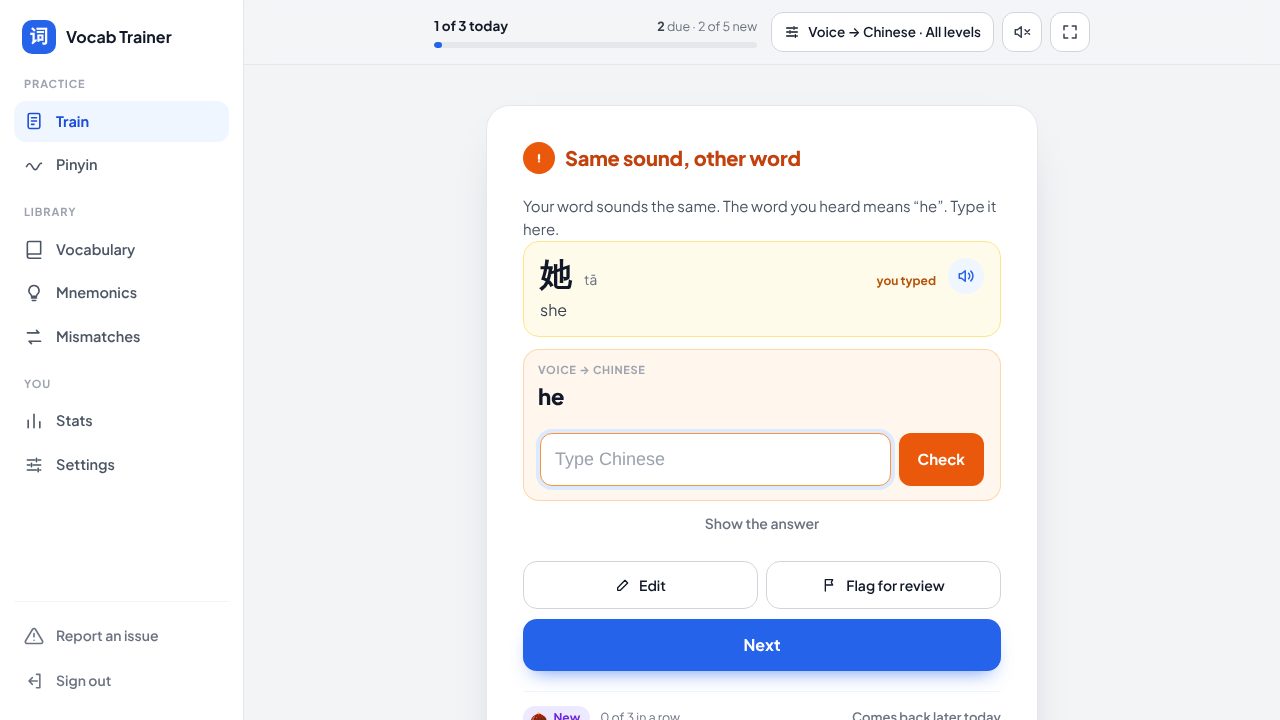
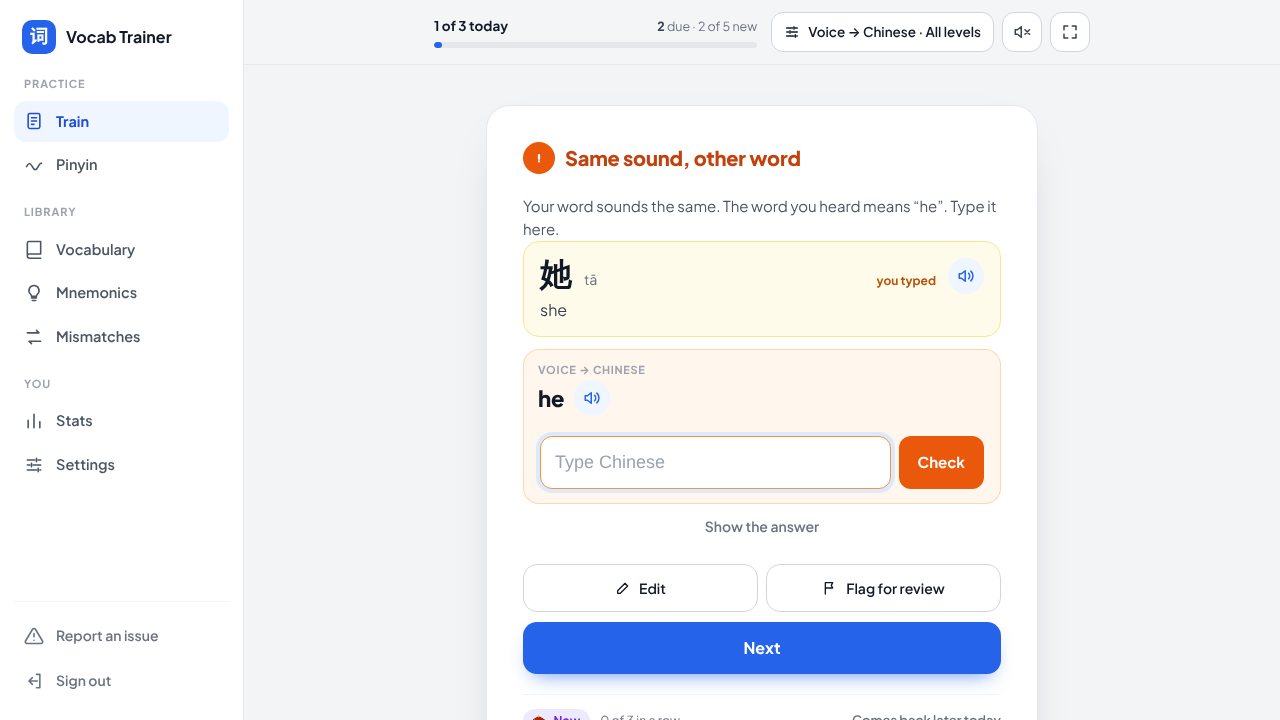
Add replay button to the Voice → Chinese homophone screen (#645)
On a Voice → Chinese card, the "Same sound, other word" screen showed
only the meaning. It now also shows a button to play the word again,
like the Voice → Translation homophone screen.

Claude-Session: https://claude.ai/code/session_015dBvsXYQXX4J4ahCzJJL39

diff --git a/e2e/voice-to-zh.spec.js b/e2e/voice-to-zh.spec.js
@@ -76,13 +76,15 @@ test.describe('Voice → Chinese (issue #571)', () => {
     await expect(page.locator('#result-icon')).toHaveText('Correct');
   });
 
-  test('a homophone shows the meaning and lets the user type again', async ({ page }) => {
+  // Issue #645: the homophone screen also has a replay button for the word.
+  test('a homophone shows the meaning and a replay button and lets the user type again', async ({ page }) => {
     const ids = await setupUser(page, 'voice_to_zh', [
       { zh: '他', pinyin: 'tā', en: ['he'] },
       { zh: '她', pinyin: 'tā', en: ['she'] },
     ]);
     const word = await nextCard(page, 'voice_to_zh', ids);
     const other = word.zh === '他' ? '她' : '他';
+    await page.route('**/api/audio/**', route => route.fulfill({ status: 200, contentType: 'audio/mpeg', body: Buffer.alloc(0) }));
 
     await page.goto('/train');
     await expect(page.locator('#card-area')).toBeVisible({ timeout: 12_000 });
@@ -90,8 +92,14 @@ test.describe('Voice → Chinese (issue #571)', () => {
 
     await expect(page.locator('#result-icon')).toHaveText('Same sound, other word');
     await expect(page.locator('#result-question')).toContainText(word.en[0]);
+    await expect(page.locator('#result-question')).not.toContainText(word.zh);
+    await expect(page.locator('#result-question .result-question-play')).toBeVisible();
     await expect(page.locator('#disambig-input')).toBeVisible();
     await captureForPR(page, 'train-voice-to-zh-homophone');
+
+    const audio = page.waitForRequest(req => req.url().includes('/api/audio/'));
+    await page.locator('#result-question .result-question-play').click();
+    await audio;
 
     await page.locator('#disambig-input').fill(word.zh);
     await page.locator('#disambig-form button[type="submit"]').click();

diff --git a/service/frontend/train-result.js b/service/frontend/train-result.js
@@ -474,6 +474,10 @@ function renderWordAnswerResult(result, answer) {
       if (isVoiceTransl) {
         questionWord.innerHTML = `<span class="tr-recap-row"><span class="font-hanzi">${escHtml(result.zh_text)}</span>${speakerButtonHTML('result-question-play', true)}</span>`;
         questionWord.querySelector('.result-question-play').addEventListener('click', playWord);
+      } else if (currentCard.mode === 'voice_to_zh') {
+        // The sound is the question: offer it again next to the meaning (issue #645).
+        questionWord.innerHTML = `<span class="tr-recap-row"><span>${escHtml(meaning)}</span>${speakerButtonHTML('result-question-play', true)}</span>`;
+        questionWord.querySelector('.result-question-play').addEventListener('click', playWord);
       } else {
         questionWord.textContent = meaning;
       }

diff --git a/docs/features.md b/docs/features.md
@@ -44,7 +44,7 @@ Everything the app does, grouped by area. For how new words and reviews are sche
   - **Chinese (no sound) → English**. This mode is the same as Chinese → English, but it hides the 🔊 play button and never auto-plays audio. Use this mode to drill visual hanzi recognition without an audio cue.
   - **Chinese + Pinyin → English**
   - **Voice → Translation**. The Chinese character is hidden; only the audio plays. You must type the translation from memory. Audio always plays automatically when a card appears. If your device has no speaker, enable "Voice not available" in Settings to fall back to showing the Chinese text (equivalent to Chinese → English). If you type the meaning of a different word with the same pinyin and tones (for example "foot" (脚 jiǎo) for 角 jiǎo), the result screen "Same sound, other word" shows the word you typed, the Chinese characters of the word you heard and a button to play the sound again. It does not show the meaning. Type the meaning again. A correct second answer counts as correct. The app finds the other word in the words you already trained. The screen also shows when your answer has one other word with the same sound, for example "he has a child" for 她有孩子 tā yǒu háizi ("he" 他 tā and "she" 她 tā). The app gets the pinyin of the two words from the translations of your words.
-  - **Voice → Chinese**. The word and its meaning are hidden; only the audio plays. You must type the Chinese characters. If you type a different word with the same pinyin and tones (a homophone, for example 她 for 他), the result screen "Same sound, other word" shows the meaning of the word you heard and lets you type again. A correct second answer counts as correct, like on the "Right meaning, other word" screen. The screen also shows when one character has the same sound, for example 他有孩子 for 她有孩子. A question mark or other punctuation at the end does not count, so 他喜欢什么 for 她喜欢什么？ also shows the screen. The app gets the pinyin of the typed word or character from your vocabulary, else from the dictionary.
+  - **Voice → Chinese**. The word and its meaning are hidden; only the audio plays. You must type the Chinese characters. If you type a different word with the same pinyin and tones (a homophone, for example 她 for 他), the result screen "Same sound, other word" shows the meaning of the word you heard and a button to play the sound again, and lets you type again. A correct second answer counts as correct, like on the "Right meaning, other word" screen. The screen also shows when one character has the same sound, for example 他有孩子 for 她有孩子. A question mark or other punctuation at the end does not count, so 他喜欢什么 for 她喜欢什么？ also shows the screen. The app gets the pinyin of the typed word or character from your vocabulary, else from the dictionary.
 
   When you skip a voice card, the app asks if voice is not available. If you answer yes, the app asks the same word again at once instead of skipping it: a *Voice → Translation* word as *Chinese → Translation*, a *Voice → Chinese* word as *Translation → Chinese*. Later voice cards in the same session use these fallback modes too.
   - **Progressive**. This mode picks the quiz direction based on your learning progress.
